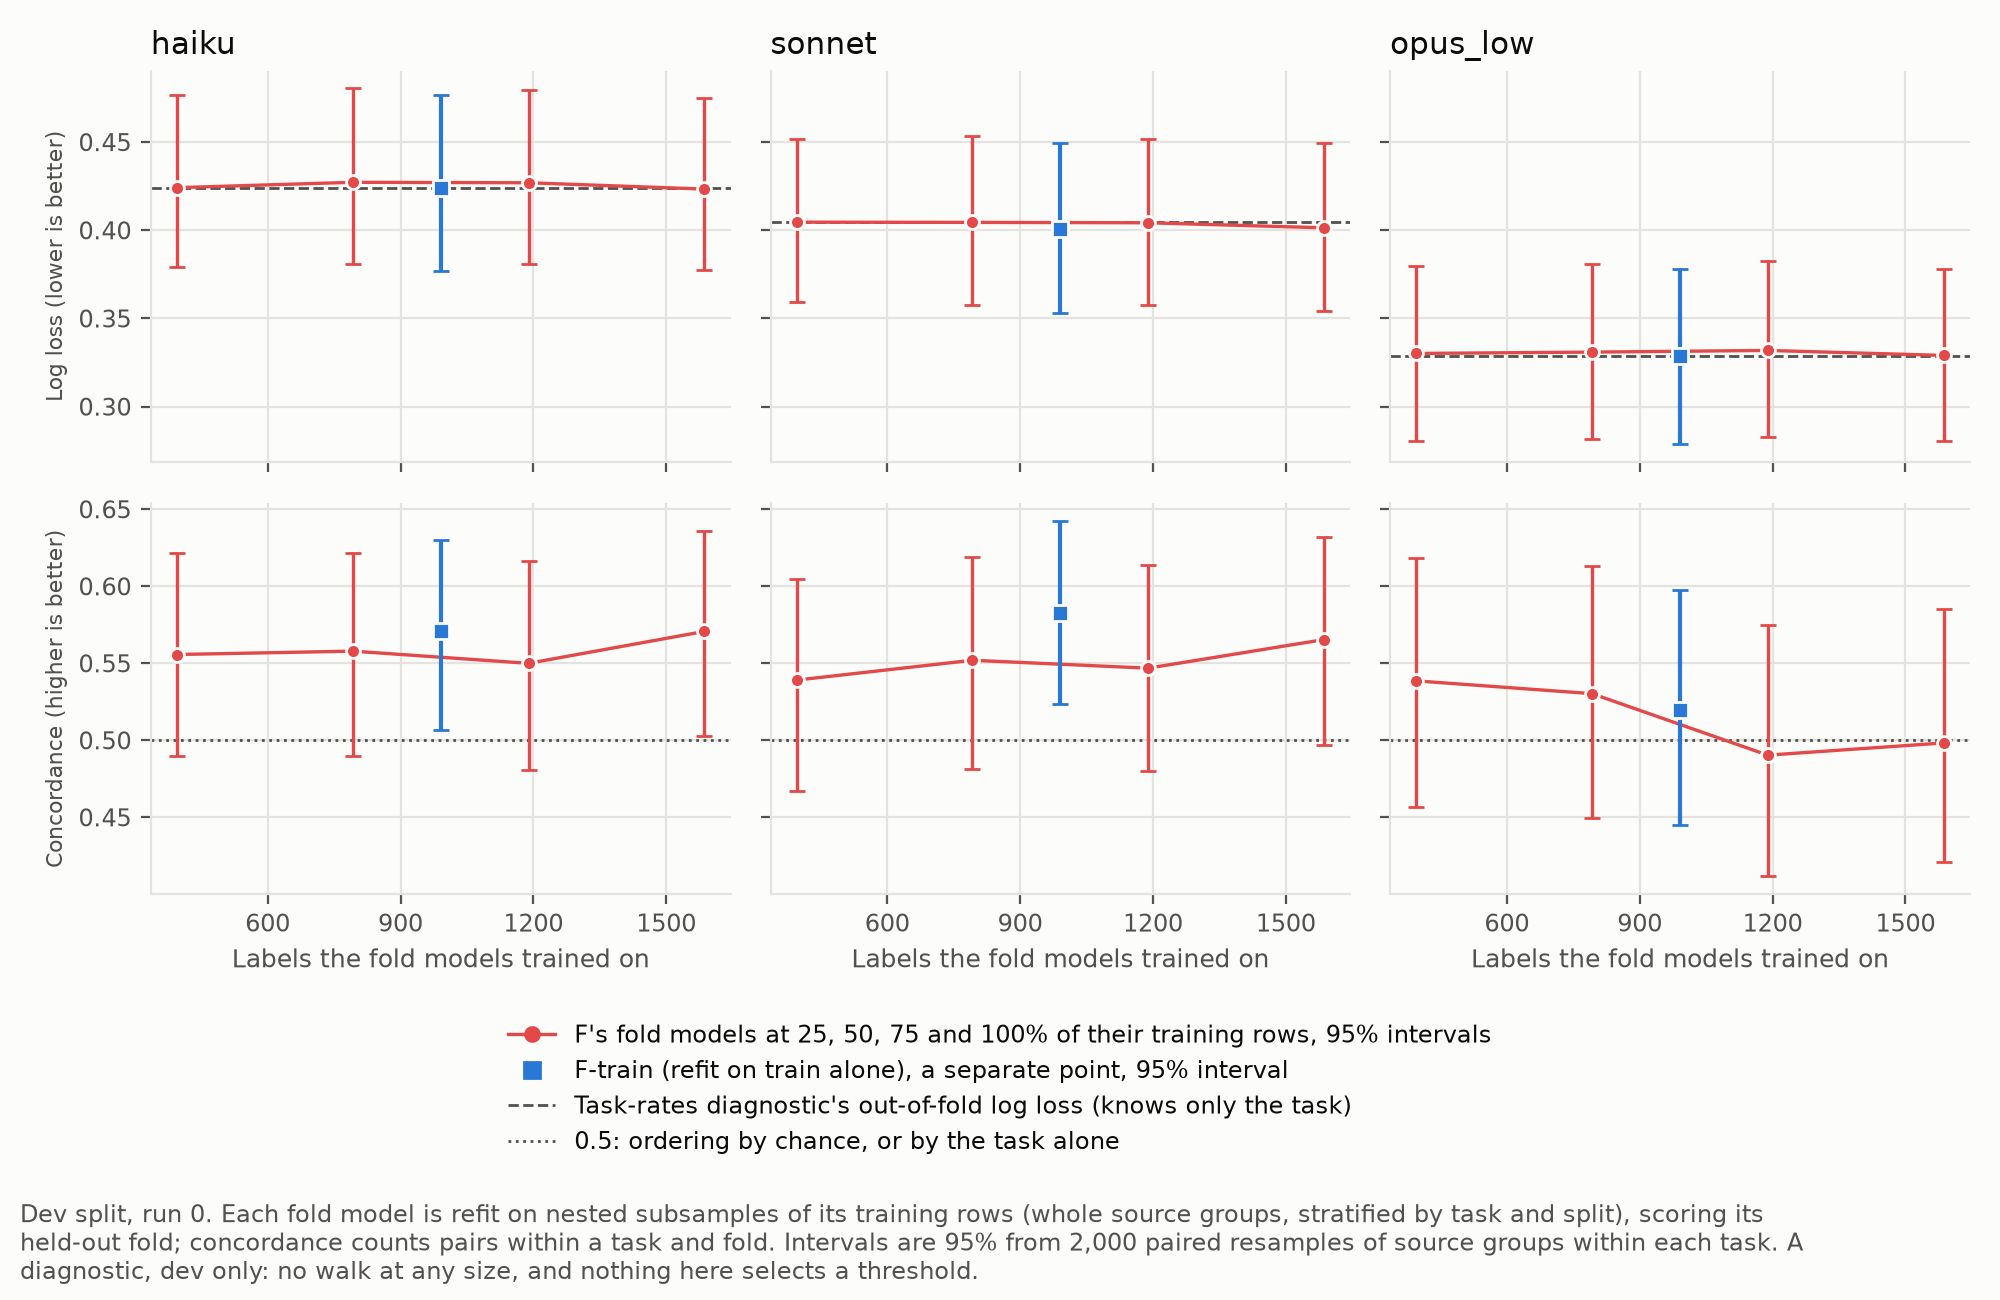
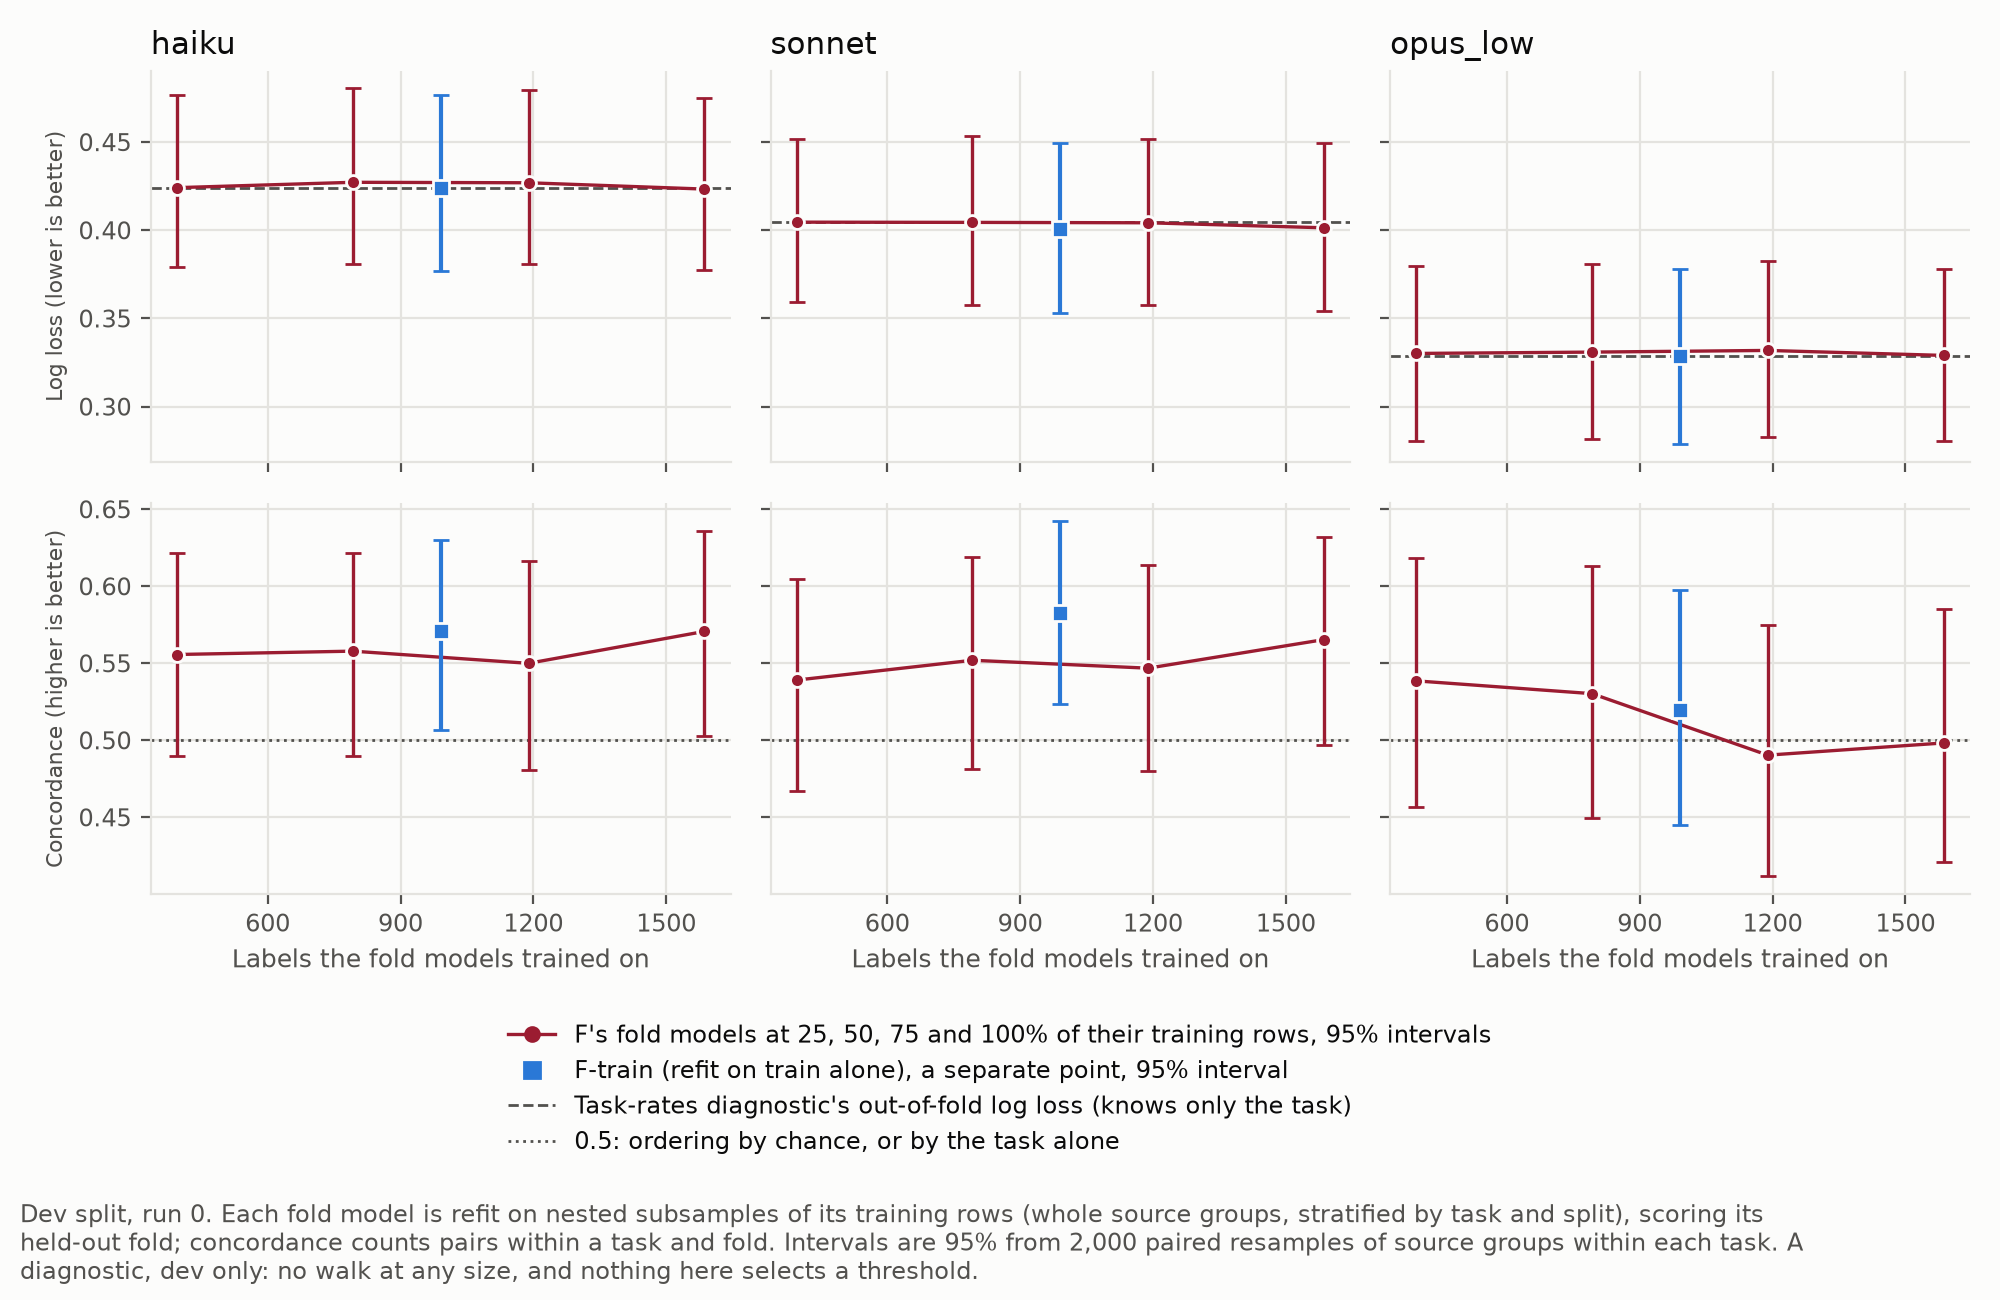
Give F a colour clearly apart from E's and the envelope's, and check it
F's red (#e34948) sat 5 from the envelope's orange in OKLab x100 (7 in normal vision by the reference
validator), and nothing checked that the styles differed beyond not being equal. F is now maroon (#9b1c31),
at least 20 from the configs' blue, the envelope's orange, the oracle's green and E's purple in normal vision
and under simulated protan, deutan and tritan vision. check_chart_routers measures every pair against a floor
of 15, with the old red as the known positive and black against white as the hand-worked value.

F's 97% label on the uniform panel sat below left of its cross with a leader through sonnet's point; it now
sits to the left, clear of sonnet's label.

The headline, per-task and learning-curve PNGs are rebuilt (they draw F). Every figure JSON and the
operating-points file are byte for byte as before.

diff --git a/analysis/check_chart_routers.py b/analysis/check_chart_routers.py
@@ -7,7 +7,10 @@ folder and never rewrites a figure. That a rebuild with E alone equals the commi
 needs `results/`.
 
 - the router list holds E first and F second, under their names in the operating-points file, and each router has a
-  style of its own: a colour, a marker and a line that no other router's shares;
+  style of its own: a colour, a marker and a line that no other router's shares, and F's colour at least 15 apart
+  (OKLab x100, in normal vision and under simulated protan, deutan and tritan vision) from every other colour the
+  figures draw: the configs' blue, the envelope's orange, the oracle's green and E's purple (known positive: F's
+  earlier red was 5 from the envelope's orange);
 - a headline figure and a per-task figure drawn from E's committed numbers draw E's layer in E's style, and nothing in
   F's;
 - the same two figures drawn with a second router, copied from E's numbers under another name, draw both routers'
@@ -16,6 +19,7 @@ needs `results/`.
 """
 
 import json
+import math
 import sys
 import tempfile
 from dataclasses import replace
@@ -24,9 +28,25 @@ from pathlib import Path
 from matplotlib.figure import Figure
 
 from analysis.chart_routers import F_STYLE, ROUTERS, RULES, TRAINED
-from analysis.pareto import FIGURE_DATA, TASK_FIGURE_DATA, ChartError, draw_headline, draw_tasks
+from analysis.pareto import (
+    FIGURE_DATA,
+    SERIES_1,
+    SERIES_2,
+    SERIES_3,
+    TASK_FIGURE_DATA,
+    ChartError,
+    draw_headline,
+    draw_tasks,
+)
 from analysis.router_names import LABELS, NAMED_ROUTERS, E, F
 
+# Machado, Oliveira and Fernandes (2009) simulations of protan, deutan and tritan vision at severity 1, on linear RGB.
+SIMULATIONS = {
+    "protan": [[0.152286, 1.052583, -0.204868], [0.114503, 0.786281, 0.099216], [-0.003882, -0.048116, 1.051998]],
+    "deutan": [[0.367322, 0.860646, -0.227968], [0.280085, 0.672501, 0.047413], [-0.011820, 0.042940, 0.968881]],
+    "tritan": [[1.255528, -0.076749, -0.178779], [-0.078411, 0.930809, 0.147602], [0.004733, 0.691367, 0.303900]],
+}
+APART = 15  # the data-viz reference's floor for two colours that can sit side by side, in OKLab x100
 NOTES = {"realistic": "a note"}  # the headline figure sizes its titles by its notes
 problems: list[str] = []
 
@@ -35,6 +55,33 @@ def check(ok: bool, what: str) -> None:
     print(f"{'PASS' if ok else 'FAIL'}  {what}")
     if not ok:
         problems.append(what)
+
+
+def oklab(rgb: list[float]) -> list[float]:
+    """OKLab (Ottosson, 2020) of linear RGB."""
+    r, g, b = rgb
+    cone = [(0.4122214708 * r + 0.5363325363 * g + 0.0514459929 * b) ** (1 / 3),
+            (0.2119034982 * r + 0.6806995451 * g + 0.1073969566 * b) ** (1 / 3),
+            (0.0883024619 * r + 0.2817188376 * g + 0.6299787005 * b) ** (1 / 3)]  # fmt: skip
+    return [0.2104542553 * cone[0] + 0.7936177850 * cone[1] - 0.0040720468 * cone[2],
+            1.9779984951 * cone[0] - 2.4285922050 * cone[1] + 0.4505937099 * cone[2],
+            0.0259040371 * cone[0] + 0.7827717662 * cone[1] - 0.8086757660 * cone[2]]  # fmt: skip
+
+
+def linear_rgb(colour: str) -> list[float]:
+    values = [int(colour[i : i + 2], 16) / 255 for i in (1, 3, 5)]
+    return [v / 12.92 if v <= 0.04045 else ((v + 0.055) / 1.055) ** 2.4 for v in values]
+
+
+def gap(first: str, second: str) -> float:
+    """The smallest OKLab distance x100 between two hex colours, as seen by normal vision and by each simulated colour
+    blindness: how far apart they read to the readers who see them least apart."""
+    one, other = linear_rgb(first), linear_rgb(second)
+    views = [(one, other)]
+    for matrix in SIMULATIONS.values():
+        views.append(tuple([min(1.0, max(0.0, sum(row[k] * rgb[k] for k in range(3)))) for row in matrix]  # type: ignore[arg-type]
+                           for rgb in (one, other)))  # fmt: skip
+    return min(100 * math.dist(oklab(a), oklab(b)) for a, b in views)
 
 
 def colours(fig: Figure) -> set[str]:
@@ -70,6 +117,15 @@ def main() -> int:
         check(len({getattr(s, field) for s in styles}) == len(styles), f"E's and F's styles differ in their {field}")
     check(all(len(s.color) == 7 and s.color.startswith("#") for s in styles), "each style's colour is a hex colour")
     check(RULES.style.color == "#8e5bd0", "E's style is the one chart v1 drew it in")
+    check(abs(gap("#000000", "#ffffff") - 100) < 1e-3 and gap("#2a78d6", "#2a78d6") == 0,
+          "the colour gap reads 100 from black to white (OKLab lightness 0 to 1) and 0 from a colour to itself")  # fmt: skip
+    drawn = {"the configs' blue": SERIES_1, "the envelope's orange": SERIES_2, "the oracle's green": SERIES_3,
+             "E's purple": RULES.style.color}  # fmt: skip
+    for what, colour in drawn.items():
+        check(gap(F_STYLE.color, colour) >= APART, f"F's colour is {gap(F_STYLE.color, colour):.1f} from {what}, "
+              f"at least {APART} in every view")  # fmt: skip
+    check(gap("#e34948", SERIES_2) < APART,
+          "known positive: F's earlier red (#e34948) was too close to the envelope's orange, and the check says so")  # fmt: skip
 
     print("\n-- drawn with E alone --")
     e_steps = "E: rules router, its steps from A (straight lines in linear cost)"

diff --git a/analysis/chart_routers.py b/analysis/chart_routers.py
@@ -6,11 +6,11 @@ router-score table, how to walk it, and any extra facts for its entry in the hea
 the order the figures draw and the legend lists them; E's and F's entries are built here. Steps, operating points, McNemar rows and the
 matched-cost comparison are drawn and computed per entry, in `analysis/pareto.py`.
 
-Each router has its own style, so that two read apart on one panel without relying on colour alone: a colour from the
-data-viz reference palette's family, a marker for its steps and another for its operating points' centres, and a
-line. E's is chart v1's, unchanged. F's is red, triangles and a dashed line, against E's purple, squares,
-diamonds and a solid line; the figures' other colours are the configs' blue, the envelope's orange and the oracle's
-green.
+Each router has its own style, so that two read apart on one panel without relying on colour alone: a colour, a marker
+for its steps and another for its operating points' centres, and a line. E's is chart v1's, unchanged. F's is maroon,
+triangles and a dashed line, against E's purple, squares, diamonds and a solid line; the figures' other colours are the
+configs' blue, the envelope's orange and the oracle's green. F's maroon is at least 15 apart in OKLab (x100) from each
+of those four, in normal vision and under simulated red-green colour blindness; `check_chart_routers` measures it.
 """
 
 from collections.abc import Callable
@@ -52,15 +52,15 @@ E_STYLE = RouterStyle(
     },
 )  # fmt: skip
 
-# F's: red, triangles and a dashed line, against E's purple, squares, diamonds and a solid line. Its label offsets are
+# F's: maroon, triangles and a dashed line, against E's purple, squares, diamonds and a solid line. Its label offsets are
 # placed by eye on the committed figure, as E's are.
 F_STYLE = RouterStyle(
-    color="#e34948", marker="^", point_marker="v", linestyle="--",
+    color="#9b1c31", marker="^", point_marker="v", linestyle="--",
     point_offsets={
         ("realistic", "97%"): (-6, -58, "right"),
         ("realistic", "99%"): (44, -24, "left"),
         ("realistic", "100%: falls back to A"): (74, -80, "right"),
-        ("uniform", "97%"): (-24, -44, "right"),
+        ("uniform", "97%"): (-84, 0, "right"),
         ("uniform", "100%, 99%: falls back to A"): (8, -92, "right"),
     },
 )  # fmt: skip
